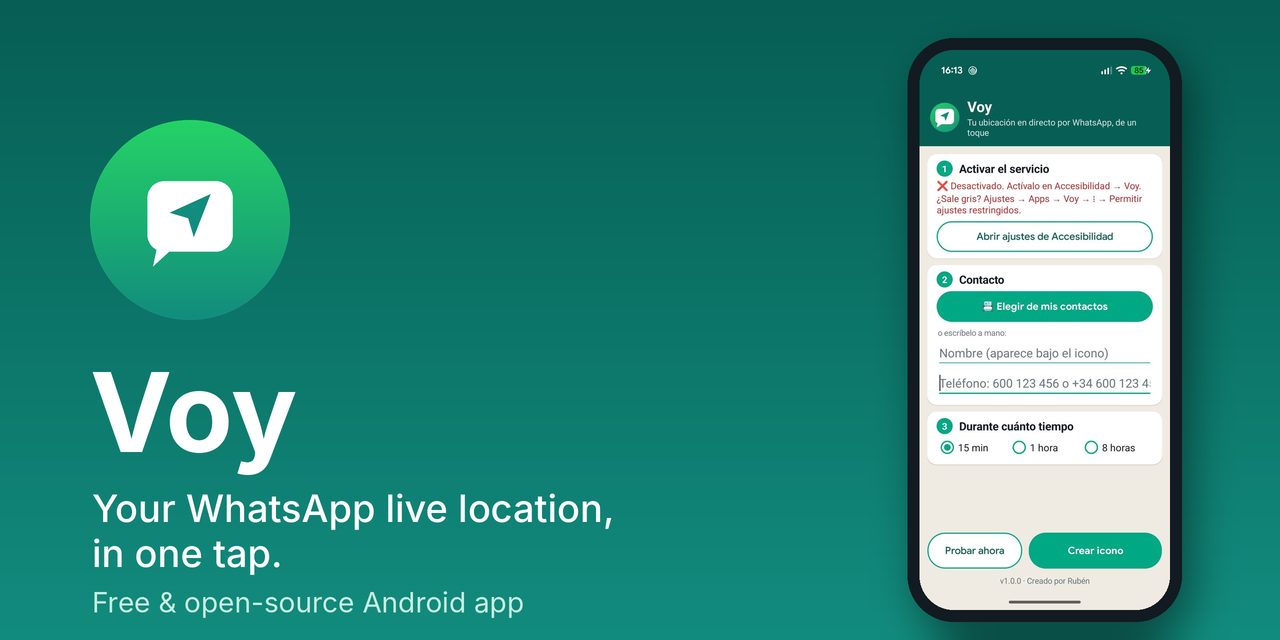
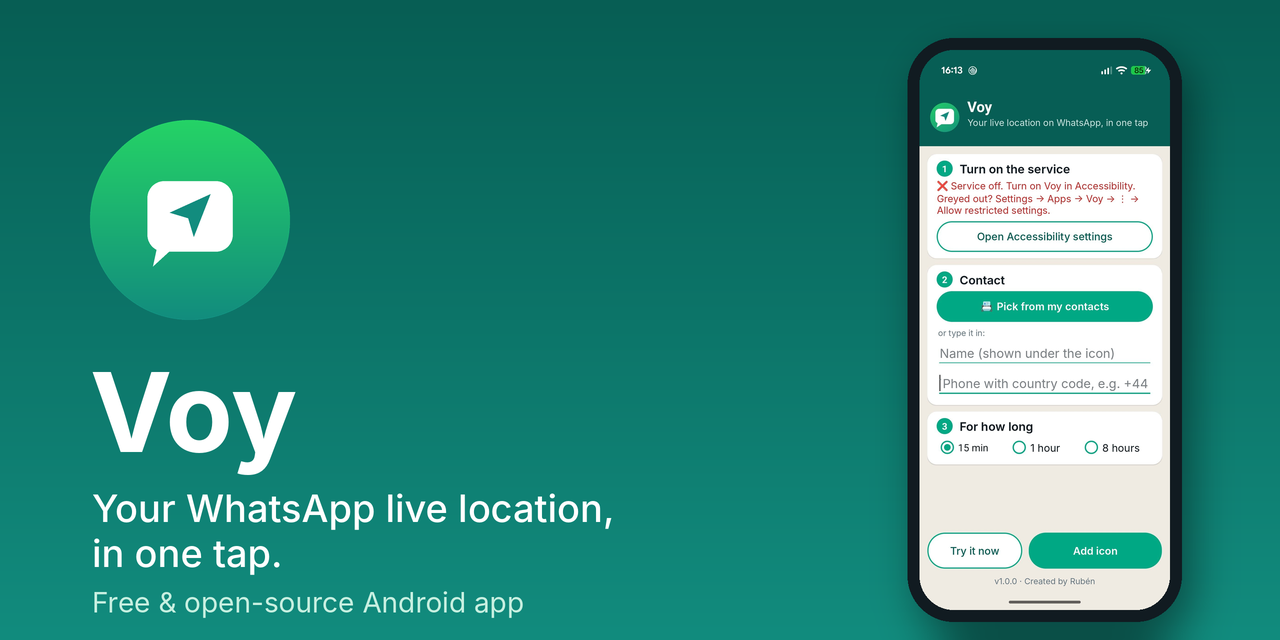
Version 1.0.1: English screenshots + F-Droid metadata

diff --git a/README.md b/README.md
@@ -29,14 +29,14 @@ Free and open-source Android app.
 
 ## How it works
 
-<p align="center"><img src="screenshots/main-screen.jpg" width="240" alt="Voy main screen"></p>
+<p align="center"><img src="screenshots/main-screen-en.jpg" width="240" alt="Voy main screen"></p>
 
 1. **Turn on the service.** Open Voy and tap **Open Accessibility settings**. Find **Voy** under *Downloaded apps* and turn on **Use Voy**.
    If the switch is greyed out (Android 13 and newer, for apps installed outside Google Play): *Settings → Apps → Voy → ⋮ → Allow restricted settings*, then try again.
 
    <p align="center">
-     <img src="screenshots/accessibility-list.jpg" width="220" alt="Voy in Settings → Accessibility">
-     <img src="screenshots/accessibility-enable.jpg" width="220" alt="Turning on Use Voy">
+     <img src="screenshots/accessibility-list-en.jpg" width="220" alt="Voy in Settings → Accessibility">
+     <img src="screenshots/accessibility-enable-en.jpg" width="220" alt="Turning on Use Voy">
    </p>
 2. **Pick a contact** with **Pick from my contacts**, or type the name and phone number.
 3. **Choose the duration** and tap **Add icon**. Confirm in the dialog and place the icon on your home screen.
